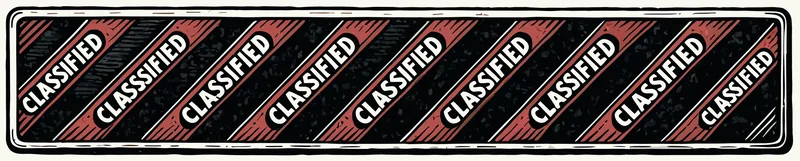
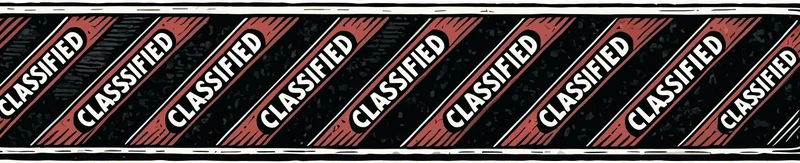
Slim the CLASSIFIED tape so it sits on the page.
The strip is 56px tall on desktop and 36px on a phone, repeating across the width with the cream box removed.

diff --git a/assets/redesign.css b/assets/redesign.css
@@ -261,19 +261,21 @@ img.head-sticker.tilt{
 }
 img.tape-rule{
   display:block;
-  width:min(1120px,100%);
-  height:auto;
-  max-height:none;
-  margin:4px auto 16px;
-  aspect-ratio:2328 / 468;
-  object-fit:contain;
-  object-position:center;
-  transform:none;
-  background:transparent !important;
+  width:100%;
+  height:56px;
+  margin:0 0 8px;
+  padding:0 !important;
   border:0 !important;
   box-shadow:none !important;
-  padding:0 !important;
+  aspect-ratio:auto !important;
+  object-fit:none;
+  object-position:-9999px 0;
+  transform:none;
+  background:url(art/spot/tape-classified-straight-800.webp) left center / auto 56px repeat-x !important;
   pointer-events:none;
+}
+@media(max-width:700px){
+  img.tape-rule{height:36px;background-size:auto 36px !important}
 }
 #occasions::before,#doors::before{display:none}
 @media(max-width:700px){
